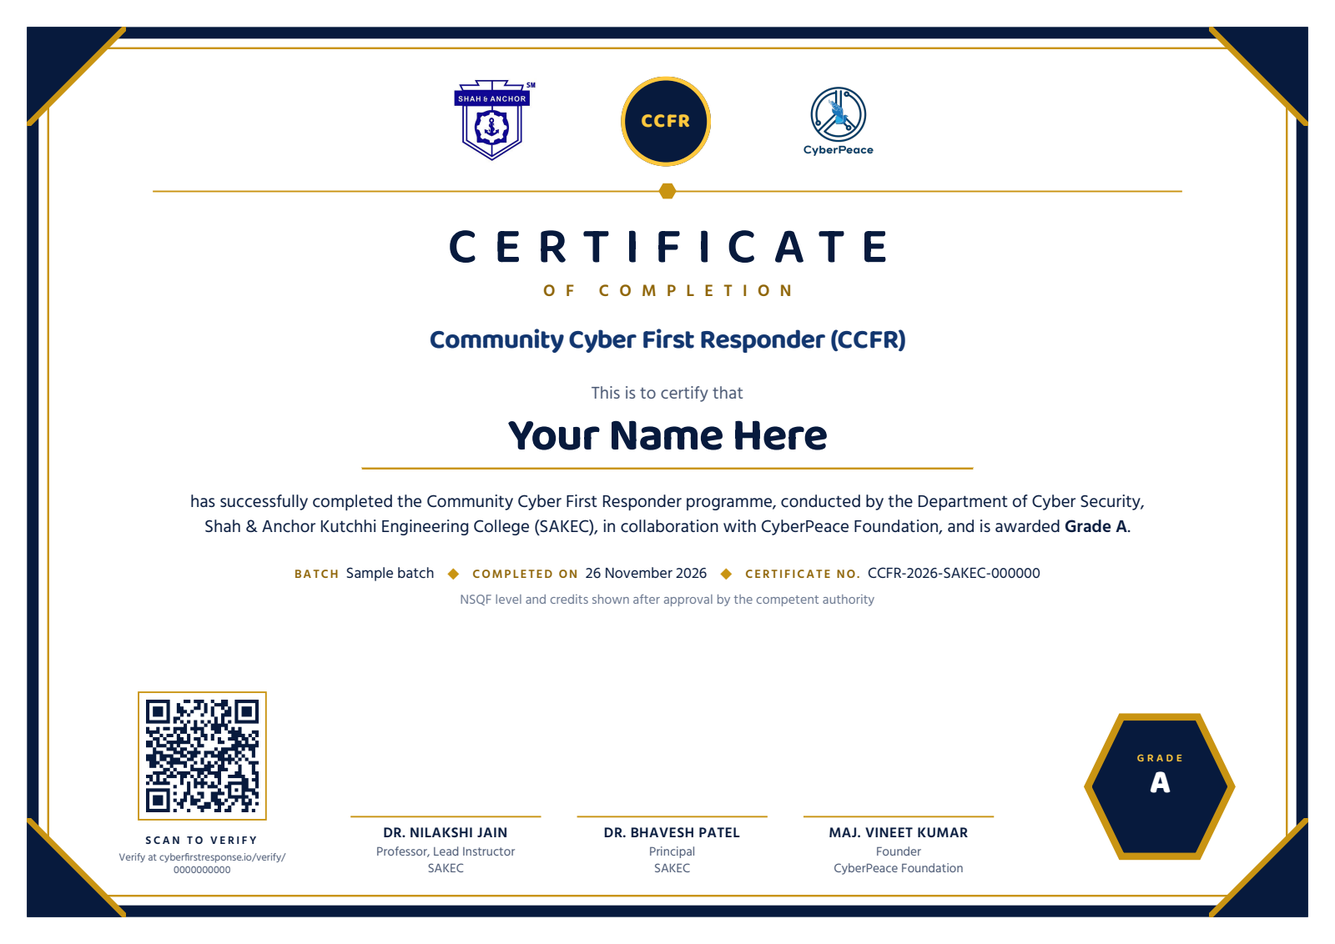
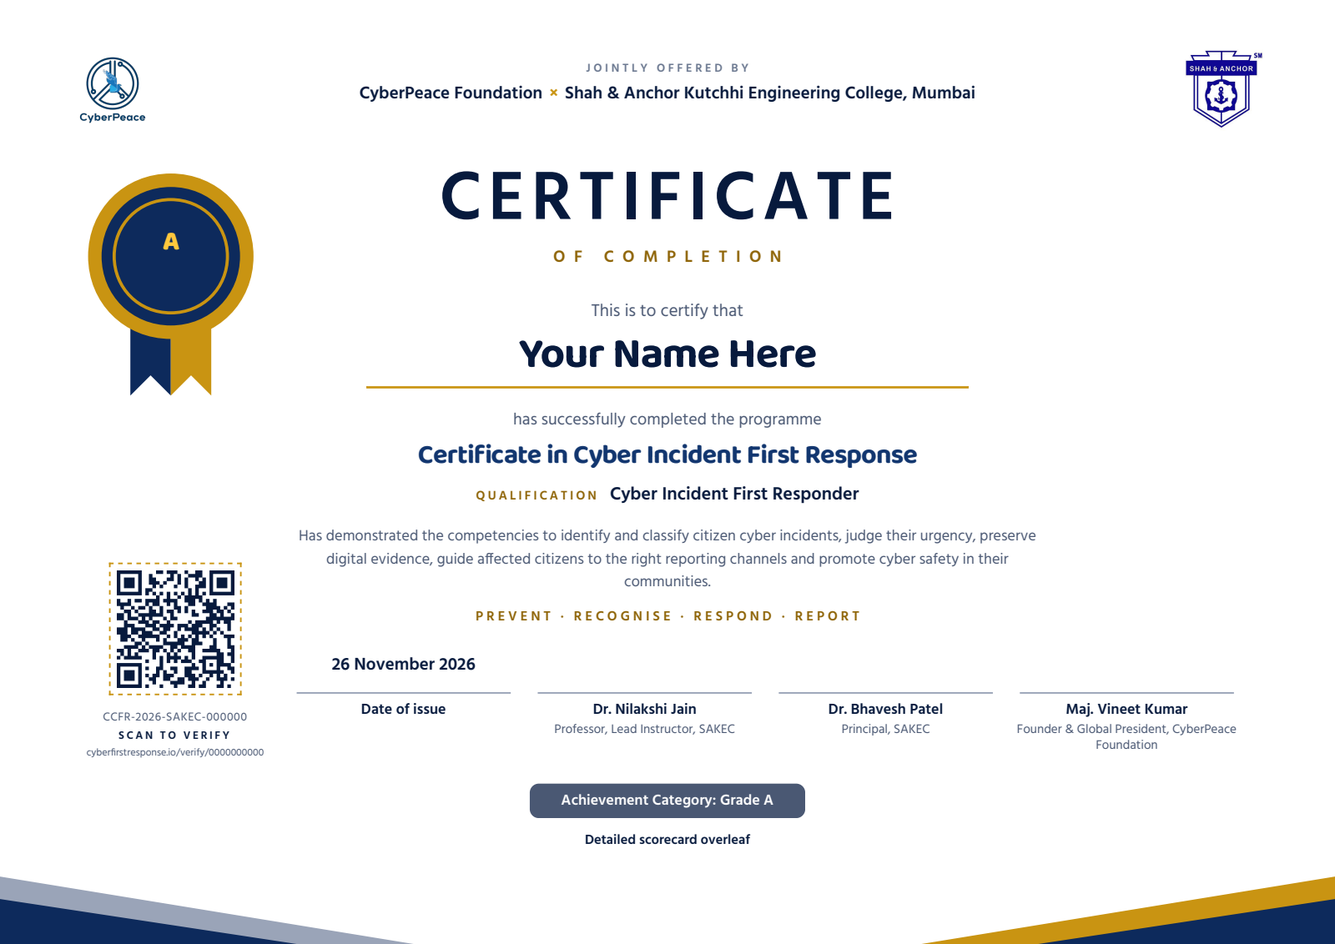
Build the certificate's final design as page 1
Replaces the placeholder with the approved artwork: the joint-offering
header, the gold seal carrying the achievement category, the competency
statement, the pillars line, a date-of-issue column beside the three
signatures, and "Detailed scorecard overleaf". The scorecard page is
unchanged.

The certificate now states its own programme wording through
CERTIFICATE_PROGRAMME_TITLE and CERTIFICATE_QUALIFICATION. PROGRAMME_NAME
is deliberately untouched: it names the site, the admin, the MFA issuer and
the email sender, none of which should change because the printed
certificate does.

The verify code stays printed under the QR. The artwork shows only a
certificate ID, but a number never normalises to a code, so printing the
number alone would have made the certificate verifiable by scanning only.

Signatory order stays Jain, Patel, Kumar per D36 rather than the artwork's
Patel-first order, and each column is given a fixed role height so Kumar's
two-line title cannot lift its own signature rule out of alignment.

diff --git a/templates/certificates/pdf/certificate.html b/templates/certificates/pdf/certificate.html
@@ -1,14 +1,15 @@
 {% comment %}
-The certificate PDF (Stage 7, D36). PLACEHOLDER DESIGN: a clean A4 landscape page in the look of
-design-reference/frontend-prototype/assets/certificate/cert-front.jpg and the site tokens. The
-final design replaces this one file.
+The certificate PDF (Stage 7, D36 as amended). Page 1 is the final artwork
+(design-reference/frontend-prototype/assets/certificate/cert-back.jpg's front), page 2 the
+detailed scorecard.
 
 Rules for whoever edits it:
 * Every resource is {{ asset }}<name> and must be on the allowlist in apps/certificates/pdf.py.
   Nothing else is fetched (no http, no file paths, no data: URLs).
 * Values come from the snapshot `s` and are autoescaped. Never put a value inside <style>, never
   mark a value safe.
-* English only (D10). Print the grade, never percentages or hours (D36).
+* English only (D10). Page 1 prints the achievement category, never a percentage or an hour count;
+  the numbers live on page 2.
 {% endcomment %}<!doctype html>
 <html lang="en">
 <head>
@@ -30,6 +31,63 @@ Rules for whoever edits it:
   body { font-family: "Hind", sans-serif; color: #071a3d; font-size: 10.5pt; line-height: 1.35; }
   p { margin: 0; }
   .sheet { position: relative; width: 297mm; height: 210mm; overflow: hidden; background: #fff; }
+  .display { font-family: "Baloo 2", sans-serif; }
+
+  /* --- Page 1: the certificate ------------------------------------------------------------- */
+  .jointly { position: absolute; top: 11mm; left: 16mm; right: 16mm; height: 20mm; text-align: center; }
+  .jointly img { position: absolute; top: 0; height: 18mm; width: auto; }
+  .jointly .l { left: 0; }
+  .jointly .r { right: 0; }
+  .jointly .by { margin-top: 2.5mm; color: #6b7890; font-size: 7.4pt; font-weight: 600; letter-spacing: .26em; padding-left: .26em; }
+  .jointly .who { margin-top: 1.2mm; font-size: 11pt; font-weight: 700; }
+  .jointly .who .x { color: #c99412; margin: 0 1.5mm; }
+
+  .seal { position: absolute; left: 17mm; top: 38mm; width: 42mm; height: 54mm; text-align: center; }
+  .seal svg { position: absolute; left: 0; top: 0; width: 42mm; height: 54mm; }
+  .seal .cat { position: absolute; left: 0; right: 0; top: 12.5mm; color: #ffc83d; font-size: 17pt;
+               font-weight: 800; line-height: 1.1; }
+
+  .c-main { position: absolute; top: 37mm; left: 20mm; right: 20mm; text-align: center; }
+  .c-main h1 { margin: 0; font-size: 44pt; font-weight: 700; letter-spacing: .09em; line-height: 1; padding-left: .09em; }
+  .c-main .of { margin-top: 2.2mm; color: #8f6508; font-size: 10.5pt; font-weight: 600; letter-spacing: .52em; padding-left: .52em; }
+  .c-main .certify { margin-top: 7mm; color: #4a5873; font-size: 11pt; }
+  .c-main .name { display: inline-block; margin-top: 1.5mm; padding: 0 8mm 1.5mm; min-width: 118mm;
+                  font-size: 27pt; font-weight: 700; line-height: 1.15; border-bottom: .5mm solid #c99412; }
+  .c-main .name--long { font-size: 19pt; }
+  .c-main .lead { margin-top: 4.5mm; color: #4a5873; font-size: 10.5pt; }
+  .c-main .title { margin-top: 2mm; color: #12366f; font-size: 17pt; font-weight: 700; line-height: 1.15; }
+  .c-main .qual { margin-top: 2.6mm; font-size: 11.5pt; font-weight: 700; }
+  .c-main .qual .label { color: #8f6508; font-size: 8pt; font-weight: 600; letter-spacing: .2em; margin-right: 2.4mm; }
+  .c-main .about { margin: 4mm auto 0; max-width: 168mm; color: #4a5873; font-size: 9.6pt; line-height: 1.5; }
+  .c-main .pillars { margin-top: 3mm; color: #8f6508; font-size: 8.6pt; font-weight: 600; letter-spacing: .24em; padding-left: .24em; }
+
+  .c-verify { position: absolute; left: 18mm; bottom: 41mm; width: 42mm; text-align: center; }
+  .c-verify img { width: 26mm; height: 26mm; padding: 1.4mm; border: .35mm dashed #c99412; }
+  .c-verify .cid { margin-top: 1.6mm; color: #4a5873; font-size: 7.4pt; letter-spacing: .04em; }
+  .c-verify .lbl { margin-top: .7mm; font-size: 7pt; font-weight: 700; letter-spacing: .2em; }
+  /* The verify code, not just the certificate number: a number never normalises to a code
+     (apps/certificates/codes.py), so without this line the page can only be verified by scanning. */
+  .c-verify .url { margin-top: .8mm; color: #4a5873; font-size: 6.4pt; line-height: 1.25; overflow-wrap: anywhere; }
+
+  .c-bottom { position: absolute; left: 63mm; right: 16mm; bottom: 41mm; }
+  .c-col { display: inline-block; vertical-align: bottom; width: 24.6%; text-align: center; }
+  .c-col .ink { height: 12mm; }
+  .c-col .ink img { max-height: 12mm; max-width: 40mm; }
+  .c-col .issued { height: 12mm; font-size: 11pt; font-weight: 700; line-height: 12mm; }
+  .c-col .rule { margin: 0 3mm; border-top: .35mm solid #9aa4b8; }
+  .c-col .who { margin-top: 1.4mm; font-size: 9.4pt; font-weight: 700; }
+  /* Fixed height so a role that wraps to two lines (Kumar's) keeps every column the same height:
+     the columns are bottom-aligned, so an uneven one would lift its own signature rule. */
+  .c-col .role { margin-top: .4mm; height: 8.4mm; color: #4a5873; font-size: 8pt; line-height: 1.25; }
+
+  .cat-pill { position: absolute; left: 0; right: 0; bottom: 28mm; text-align: center; }
+  .cat-pill span { display: inline-block; padding: 1.6mm 7mm; border-radius: 2mm; background: #4a5873;
+                   color: #fff; font-size: 9.4pt; font-weight: 700; }
+  .overleaf { position: absolute; left: 0; right: 0; bottom: 21mm; text-align: center; font-size: 8.6pt; font-weight: 700; }
+  .band { position: absolute; left: 0; right: 0; bottom: 0; width: 297mm; height: 18mm; }
+
+  /* --- Page 2: the detailed scorecard. Totals only: per-module marks stay off the certificate. */
+  .sheet--score { page-break-before: always; }
   .frame { position: absolute; top: 6mm; left: 6mm; right: 6mm; bottom: 6mm; border: 2.6mm solid #071a3d; }
   .frame-inner { position: absolute; top: 10.5mm; left: 10.5mm; right: 10.5mm; bottom: 10.5mm; border: .45mm solid #c99412; }
   .corner { position: absolute; width: 22mm; height: 22mm; }
@@ -37,54 +95,6 @@ Rules for whoever edits it:
   .corner--tr { top: 6mm; right: 6mm; }
   .corner--bl { bottom: 6mm; left: 6mm; }
   .corner--br { bottom: 6mm; right: 6mm; }
-
-  .content { position: absolute; top: 17mm; left: 24mm; right: 24mm; text-align: center; }
-  .display { font-family: "Baloo 2", sans-serif; }
-
-  .logos { height: 21mm; }
-  .logos img, .logos .emblem { display: inline-block; vertical-align: middle; margin: 0 9mm; }
-  .logos img { height: 19mm; width: auto; }
-  .emblem { width: 20mm; height: 20mm; border-radius: 50%; background: #071a3d; color: #ffc83d;
-            border: .9mm solid #ffc83d; box-sizing: border-box; line-height: 18.2mm; font-size: 12.5pt;
-            font-weight: 800; letter-spacing: .06em; text-align: center; }
-  .divider { position: relative; height: 4mm; margin: 2.5mm 10mm 0; }
-  .divider .line { position: absolute; left: 0; right: 0; top: 1.9mm; border-top: .35mm solid #c99412; }
-  .divider .gem { position: absolute; left: 50%; top: 0; width: 4mm; height: 4mm; margin-left: -2mm; }
-
-  h1 { margin: 5mm 0 0; font-size: 32pt; font-weight: 600; letter-spacing: .32em; line-height: 1; padding-left: .32em; }
-  .of { margin-top: 1.6mm; color: #8f6508; font-size: 10.5pt; font-weight: 600; letter-spacing: .62em; padding-left: .62em; }
-  .qualification { margin-top: 5mm; color: #12366f; font-size: 17pt; font-weight: 700; line-height: 1.1; }
-  .certify { margin-top: 6mm; color: #4a5873; font-size: 11pt; }
-  .name { display: inline-block; margin-top: 1mm; padding: 0 8mm 1mm; min-width: 120mm; font-size: 29pt;
-          font-weight: 700; line-height: 1.15; border-bottom: .45mm solid #c99412; }
-  .name--long { font-size: 20pt; }
-  .statement { margin: 4.5mm auto 0; max-width: 222mm; font-size: 11pt; line-height: 1.45; }
-  .statement strong { font-weight: 700; }
-  .meta { margin-top: 5mm; font-size: 9.5pt; }
-  .meta .label { color: #8f6508; font-weight: 600; letter-spacing: .14em; text-transform: uppercase; font-size: 7.6pt; margin-right: 1.4mm; }
-  .meta .sep { color: #c99412; margin: 0 3mm; }
-  .nsqf { margin-top: 1.6mm; color: #6b7890; font-size: 8.4pt; }
-
-  .bottom { position: absolute; left: 22mm; right: 22mm; bottom: 15mm; height: 40mm; }
-  .verify { position: absolute; left: 0; bottom: 0; width: 46mm; text-align: center; }
-  .verify img { width: 25mm; height: 25mm; padding: 1.5mm; border: .35mm solid #c99412; }
-  .verify .label { margin-top: 1.4mm; color: #071a3d; font-size: 7pt; font-weight: 600; letter-spacing: .2em; }
-  .verify .url { margin-top: .6mm; color: #4a5873; font-size: 6.6pt; line-height: 1.2; overflow-wrap: anywhere; }
-  .signatures { position: absolute; left: 52mm; right: 46mm; bottom: 0; }
-  .sig { display: inline-block; vertical-align: bottom; width: 32.5%; text-align: center; }
-  .sig .ink { height: 13mm; }
-  .sig .ink img { max-height: 13mm; max-width: 44mm; }
-  .sig .rule { margin: 0 4mm; border-top: .35mm solid #c99412; }
-  .sig .who { margin-top: 1.4mm; font-size: 9pt; font-weight: 700; text-transform: uppercase; letter-spacing: .03em; }
-  .sig .role { margin-top: .4mm; color: #4a5873; font-size: 8pt; line-height: 1.25; }
-  .grade { position: absolute; right: 0; bottom: 3mm; width: 34mm; height: 34mm; text-align: center; }
-  .grade svg { position: absolute; left: 0; top: 0; width: 34mm; height: 34mm; }
-  .grade .inner { position: absolute; left: 0; right: 0; top: 9mm; color: #fff; }
-  .grade .word { font-size: 7pt; font-weight: 600; letter-spacing: .26em; color: #ffc83d; padding-left: .26em; }
-  .grade .letter { font-size: 21pt; font-weight: 800; line-height: 1.05; }
-
-  /* Page 2, the detailed scorecard. Totals only: the per-module marks stay off the certificate. */
-  .sheet--score { page-break-before: always; }
   .sc { position: absolute; top: 15mm; left: 20mm; right: 20mm; }
   .sc-head { position: relative; height: 19mm; text-align: center; }
   .sc-head img { position: absolute; top: 0; height: 16mm; width: auto; }
@@ -113,51 +123,66 @@ Rules for whoever edits it:
 </head>
 <body>
 <div class="sheet">
-  <div class="frame"></div>
-  <div class="frame-inner"></div>
-  <svg class="corner corner--tl" viewBox="0 0 22 22"><polygon points="0,0 22,0 0,22" fill="#071a3d"/><line x1="22" y1="0" x2="0" y2="22" stroke="#c99412" stroke-width="1.3"/></svg>
-  <svg class="corner corner--tr" viewBox="0 0 22 22"><polygon points="0,0 22,0 22,22" fill="#071a3d"/><line x1="0" y1="0" x2="22" y2="22" stroke="#c99412" stroke-width="1.3"/></svg>
-  <svg class="corner corner--bl" viewBox="0 0 22 22"><polygon points="0,0 22,22 0,22" fill="#071a3d"/><line x1="0" y1="0" x2="22" y2="22" stroke="#c99412" stroke-width="1.3"/></svg>
-  <svg class="corner corner--br" viewBox="0 0 22 22"><polygon points="22,0 22,22 0,22" fill="#071a3d"/><line x1="22" y1="0" x2="0" y2="22" stroke="#c99412" stroke-width="1.3"/></svg>
+  <div class="jointly">
+    <img class="l" src="{{ asset }}img/cyberpeace" alt="CyberPeace Foundation">
+    <p class="by">JOINTLY OFFERED BY</p>
+    <p class="who">CyberPeace Foundation<span class="x">&#215;</span>Shah &amp; Anchor Kutchhi Engineering College, Mumbai</p>
+    <img class="r" src="{{ asset }}img/sakec" alt="Shah &amp; Anchor Kutchhi Engineering College">
+  </div>
 
-  <div class="content">
-    <div class="logos">
-      <img src="{{ asset }}img/sakec" alt="Shah &amp; Anchor Kutchhi Engineering College">
-      <span class="emblem display" data-emblem>{{ s.programme_short }}</span>
-      <img src="{{ asset }}img/cyberpeace" alt="CyberPeace Foundation">
-    </div>
-    <div class="divider"><div class="line"></div><svg class="gem" viewBox="0 0 10 10"><polygon points="2.5,0.7 7.5,0.7 10,5 7.5,9.3 2.5,9.3 0,5" fill="#c99412"/></svg></div>
+  <div class="seal">
+    <svg viewBox="0 0 42 54">
+      <polygon points="12,34 12,50 16.5,45.5 21,50 21,34" fill="#0d2a5c"/>
+      <polygon points="21,34 21,50 25.5,45.5 30,50 30,34" fill="#c99412"/>
+      <circle cx="21" cy="19" r="18.4" fill="#c99412"/>
+      <circle cx="21" cy="19" r="15.4" fill="#0d2a5c"/>
+      <circle cx="21" cy="19" r="12.6" fill="none" stroke="#c99412" stroke-width=".7"/>
+    </svg>
+    <p class="cat display">{{ s.grade }}</p>
+  </div>
 
-    <h1 class="display">CERTIFICATE</h1>
+  <div class="c-main">
+    <h1>CERTIFICATE</h1>
     <p class="of">OF COMPLETION</p>
-    <p class="qualification display">{{ s.qualification }}</p>
 
     <p class="certify">This is to certify that</p>
     <div class="name display{% if s.certificate_name|length > 34 %} name--long{% endif %}">{{ s.certificate_name }}</div>
-    <p class="statement">has successfully completed the {{ s.programme }} programme, conducted by the Department of Cyber Security,
-      Shah&nbsp;&amp;&nbsp;Anchor Kutchhi Engineering College (SAKEC), in collaboration with CyberPeace Foundation,
-      and is awarded <strong>Grade {{ s.grade }}</strong>.</p>
-    <p class="meta"><span class="label">Batch</span>{{ s.batch.name }}<span class="sep">&#9670;</span><span class="label">Completed on</span>{{ completed_on }}<span class="sep">&#9670;</span><span class="label">Certificate No.</span>{{ certificate_no }}</p>
-    <p class="nsqf">{{ s.nsqf.line }}</p>
+    <p class="lead">has successfully completed the programme</p>
+    <p class="title display">{{ s.programme_title }}</p>
+    <p class="qual"><span class="label">QUALIFICATION</span>{{ s.qualification }}</p>
+    <p class="about">Has demonstrated the competencies to identify and classify citizen cyber incidents, judge their
+      urgency, preserve digital evidence, guide affected citizens to the right reporting channels and promote cyber
+      safety in their communities.</p>
+    <p class="pillars">PREVENT &#183; RECOGNISE &#183; RESPOND &#183; REPORT</p>
   </div>
 
-  <div class="bottom">
-    <div class="verify">
-      <img src="{{ asset }}qr" alt="QR code to verify this certificate">
-      <p class="label">SCAN TO VERIFY</p>
-      <p class="url">Verify at {{ verify_text }}</p>
-    </div>
-    <div class="signatures">{% for sig in signatories %}<div class="sig">
-        <div class="ink">{% if sig.asset %}<img src="{{ asset }}{{ sig.asset }}" alt="Signature of {{ sig.name }}">{% endif %}</div>
-        <div class="rule"></div>
-        <p class="who">{{ sig.name }}</p>
-        <p class="role">{{ sig.designation }}{% if sig.organisation %}<br>{{ sig.organisation }}{% endif %}</p>
-      </div>{% endfor %}</div>
-    <div class="grade">
-      <svg viewBox="0 0 34 34"><polygon points="8.5,1.5 25.5,1.5 33,17 25.5,32.5 8.5,32.5 1,17" fill="#071a3d" stroke="#c99412" stroke-width="1.6"/></svg>
-      <div class="inner display"><div class="word">GRADE</div><div class="letter">{{ s.grade }}</div></div>
-    </div>
+  <div class="c-verify">
+    <img src="{{ asset }}qr" alt="QR code to verify this certificate">
+    <p class="cid">{{ certificate_no }}</p>
+    <p class="lbl">SCAN TO VERIFY</p>
+    <p class="url">{{ verify_text }}</p>
   </div>
+
+  <div class="c-bottom"><div class="c-col">
+      <div class="issued">{{ issued_on }}</div>
+      <div class="rule"></div>
+      <p class="who">Date of issue</p>
+      <p class="role"></p>
+    </div>{% for sig in signatories %}<div class="c-col">
+      <div class="ink">{% if sig.asset %}<img src="{{ asset }}{{ sig.asset }}" alt="Signature of {{ sig.name }}">{% endif %}</div>
+      <div class="rule"></div>
+      <p class="who">{{ sig.name }}</p>
+      <p class="role">{{ sig.designation }}{% if sig.organisation %}, {{ sig.organisation }}{% endif %}</p>
+    </div>{% endfor %}</div>
+
+  <div class="cat-pill"><span>Achievement Category: Grade {{ s.grade }}</span></div>
+  <p class="overleaf">Detailed scorecard overleaf</p>
+  <svg class="band" viewBox="0 0 297 18" preserveAspectRatio="none">
+    <polygon points="0,18 92,18 0,3" fill="#9aa4b8"/>
+    <polygon points="0,18 66,18 0,8" fill="#0d2a5c"/>
+    <polygon points="297,18 205,18 297,3" fill="#c99412"/>
+    <polygon points="297,18 231,18 297,8" fill="#0d2a5c"/>
+  </svg>
 </div>
 
 <div class="sheet sheet--score">
@@ -172,7 +197,7 @@ Rules for whoever edits it:
     <div class="sc-head">
       <img class="l" src="{{ asset }}img/cyberpeace" alt="CyberPeace Foundation">
       <h2 class="display">DETAILED SCORECARD</h2>
-      <p class="sub">{{ s.qualification }}</p>
+      <p class="sub">{{ s.programme_title }}</p>
       <img class="r" src="{{ asset }}img/sakec" alt="Shah &amp; Anchor Kutchhi Engineering College">
     </div>
     <div class="sc-rule"></div>
@@ -182,7 +207,7 @@ Rules for whoever edits it:
         <p class="sc-h3">Certificate details</p>
         <table class="sc-t">
           <tr><th>Candidate name</th><td>{{ s.certificate_name }}</td></tr>
-          <tr><th>Programme</th><td>{{ s.programme }}</td></tr>
+          <tr><th>Programme</th><td>{{ s.programme_title }}</td></tr>
           <tr><th>Qualification</th><td>{{ s.qualification }}</td></tr>
           <tr><th>Batch</th><td>{{ s.batch.name }}</td></tr>
           <tr><th>Programme duration</th><td>{{ notional_hours }} Notional Learning Hours</td></tr>

diff --git a/tests/test_certificates.py b/tests/test_certificates.py
@@ -319,21 +319,25 @@ def test_the_certificate_page_prints_the_grade_only_and_the_scorecard_carries_th
     assert len(pages) == 2  # the certificate, then the detailed scorecard
     text = " ".join(" ".join(pages).split())
     front = " ".join(pages[0].split())
-    assert "CERTIFICATE" in text and "Community Cyber First Responder (CCFR)" in text
-    assert "This is to certify that" in text and "Asha Invented Rao" in text
-    assert (
-        "Department of Cyber Security" in text
-        and "in collaboration with CyberPeace Foundation" in text
-    )
-    assert "Grade A" in text and cert.certificate_no in text
+    tight = front.replace(" ", "")  # letter-spaced headings extract as "J O I N T L Y ..."
+    assert "CERTIFICATE" in tight and "JOINTLYOFFEREDBY" in tight
+    assert "Certificate in Cyber Incident First Response" in front  # the programme it states
+    assert "Cyber Incident First Responder" in front  # the qualification
+    assert "This is to certify that" in front and "Asha Invented Rao" in front
+    assert "Has demonstrated the competencies to identify and classify citizen cyber incidents" in front
+    assert "Achievement Category: Grade A" in front and cert.certificate_no in front
+    assert "Detailed scorecard overleaf" in front
     assert "NSQF level and credits shown after approval by the competent authority" in text
-    assert f"/verify/{cert.verify_code}" in text.replace(" ", "")  # the URL may wrap under the QR
+    # the code, not the certificate number: a number never normalises to a code, so without this
+    # the certificate could only be verified by scanning the QR
+    assert f"/verify/{cert.verify_code}" in front.replace(" ", "")  # the URL may wrap under the QR
     # D36 as amended: the certificate page itself still prints the grade and nothing numeric;
     # the percentages and the hours live on the scorecard page only.
     assert "%" not in front and "hour" not in front.lower()
-    names = [s["name"].upper() for s in cert.snapshot["signatories"]]
-    assert names == ["DR. NILAKSHI JAIN", "DR. BHAVESH PATEL", "MAJ. VINEET KUMAR"]
+    names = [s["name"] for s in cert.snapshot["signatories"]]
+    assert names == ["Dr. Nilakshi Jain", "Dr. Bhavesh Patel", "Maj. Vineet Kumar"]
     assert front.index(names[0]) < front.index(names[1]) < front.index(names[2])  # left to right
+    assert "Founder & Global President" in front  # Kumar's full title, which wraps to two lines
 
     score = " ".join(pages[1].split())
     assert "DETAILED SCORECARD" in score

diff --git a/config/settings/base.py b/config/settings/base.py
@@ -277,7 +277,11 @@ STALE_ATTEMPT_DAYS = 7
 # Number: <prefix>-<issue year>-<batch centre code>-<6-digit serial from one global DB sequence>.
 CERTIFICATE_PREFIX = "CCFR"
 CERTIFICATE_DEFAULT_CENTRE = "SAKEC"  # a new batch's centre code; admins change it per batch
-CERTIFICATE_QUALIFICATION = f"{PROGRAMME_NAME} ({PROGRAMME_SHORT})"
+# What the certificate itself states (the final artwork). Deliberately not PROGRAMME_NAME, which
+# names the site, the admin, the MFA issuer and the email sender and stays "Community Cyber First
+# Responder": only the printed certificate carries this wording.
+CERTIFICATE_PROGRAMME_TITLE = "Certificate in Cyber Incident First Response"
+CERTIFICATE_QUALIFICATION = "Cyber Incident First Responder"
 # Printed left to right. Signature images are never in git (D22, D36): each `image` is a file name
 # in CERTIFICATE_PRIVATE_ROOT/signatures/ on the server. A missing image prints the name and
 # designation over a blank signature line.
@@ -296,7 +300,7 @@ CERTIFICATE_SIGNATORIES = [
     },
     {
         "name": "Maj. Vineet Kumar",
-        "designation": "Founder",
+        "designation": "Founder & Global President",
         "organisation": "CyberPeace Foundation",
         "image": "signature-3.png",
     },

diff --git a/tests/test_certificate_sample.py b/tests/test_certificate_sample.py
@@ -25,13 +25,14 @@ def test_sample_pdf_uses_the_real_template_and_invented_details(tmp_path):
     call_command("certificate_sample", "--out", str(out))
     text = _text(out)
     assert certificate_sample.SAMPLE_NAME in text
-    assert settings.PROGRAMME_NAME in text
+    # the certificate states its own programme wording, not the site-wide PROGRAMME_NAME
+    assert settings.CERTIFICATE_PROGRAMME_TITLE in text
+    assert settings.CERTIFICATE_QUALIFICATION in text
     assert certificate_sample.SAMPLE_NUMBER in text
     assert "cyberfirstresponse.io/verify/" in text
     assert "localhost" not in text
-    # the old prototype wording must not come back
-    assert "Incident First Response" not in text
-    assert "AICTE" not in text
+    # accreditation marks we hold neither the files nor the right to print
+    assert "AICTE" not in text and "NCSRC" not in text
 
 
 def test_sample_never_loads_a_signature_image(tmp_path, monkeypatch):

diff --git a/apps/certificates/services.py b/apps/certificates/services.py
@@ -78,6 +78,7 @@ def build_snapshot(user, result, batch, issued_local) -> dict:
         "certificate_name": user.profile.certificate_name,
         "qualification": settings.CERTIFICATE_QUALIFICATION,
         "programme": settings.PROGRAMME_NAME,
+        "programme_title": settings.CERTIFICATE_PROGRAMME_TITLE,
         "programme_short": settings.PROGRAMME_SHORT,
         "batch": {"id": batch.pk, "code": batch.code, "name": batch.name},
         "centre_code": batch.centre_code,

diff --git a/apps/certificates/management/commands/certificate_sample.py b/apps/certificates/management/commands/certificate_sample.py
@@ -36,6 +36,7 @@ def sample_snapshot() -> dict:
         "certificate_name": SAMPLE_NAME,
         "qualification": settings.CERTIFICATE_QUALIFICATION,
         "programme": settings.PROGRAMME_NAME,
+        "programme_title": settings.CERTIFICATE_PROGRAMME_TITLE,
         "programme_short": settings.PROGRAMME_SHORT,
         "batch": {"id": 0, "code": "SAMPLE", "name": "Sample batch"},
         "centre_code": "SAKEC",

diff --git a/CHANGELOG.md b/CHANGELOG.md
@@ -1,5 +1,14 @@
 # Changelog
 
+## 2026-11-26: The certificate's final design
+
+- **Page 1 is now the approved artwork**, replacing the placeholder: the joint-offering header, the gold seal carrying the achievement category, the competency statement, the PREVENT · RECOGNISE · RESPOND · REPORT line, a date-of-issue column beside the three signatures, and "Detailed scorecard overleaf". Why: the placeholder was always meant to be replaced by this one file (D36).
+- **The certificate states its own programme wording.** `CERTIFICATE_PROGRAMME_TITLE` ("Certificate in Cyber Incident First Response") and `CERTIFICATE_QUALIFICATION` ("Cyber Incident First Responder") are certificate-only. `PROGRAMME_NAME` is untouched and still names the site, the admin, the MFA issuer and the email sender, so nothing outside the printed certificate changes.
+- **Maj. Vineet Kumar is "Founder & Global President"**, per the artwork. Signatory order stays Jain · Patel · Kumar (D36); the artwork's Patel-first order was not adopted.
+- **The verify code is still printed under the QR.** The artwork shows only a certificate ID, but a certificate number never normalises to a verify code (`apps/certificates/codes.py`), so printing the number alone would have left the page verifiable by scanning only. The code line is kept, small, under "Scan to verify".
+- **This amends D36 further:** the prescribed "has successfully completed … conducted by the Department of Cyber Security …" sentence is replaced by the artwork's competency statement, and the Batch / Completed on / Certificate No. line leaves page 1 (all three remain on the scorecard).
+- Known gaps against the artwork: the seal is a plain disc rather than a toothed rosette, and the wordmark uses Hind rather than the artwork's condensed grotesque, which is not among the bundled fonts.
+
 ## 2026-11-26: Certificate scorecard page
 
 - **The certificate PDF has a second page, the detailed scorecard**, in the look of `design-reference/frontend-prototype/assets/certificate/cert-back.jpg`: the candidate and certificate details, the final assessment marks, the QR code and the pass criterion. Why: learners and employers want the marks, which the snapshot has always stored and D36 kept off the page.
